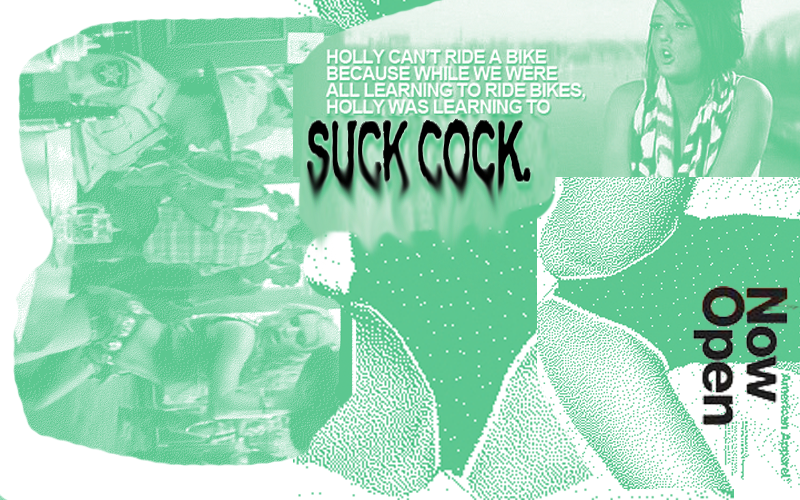
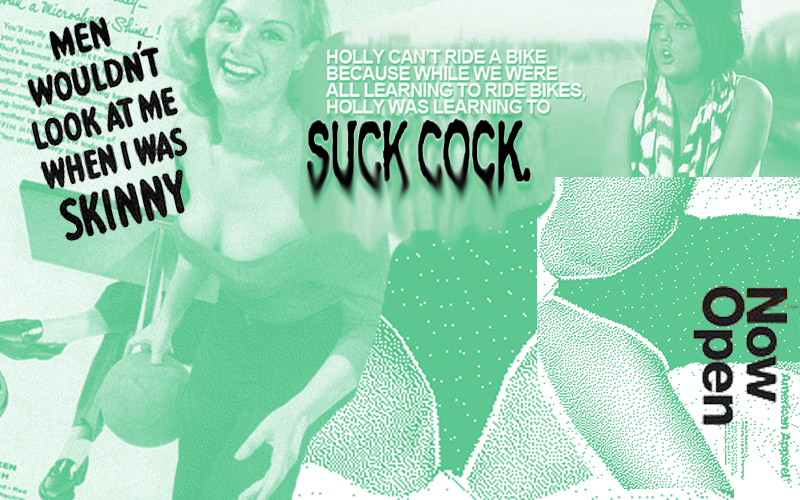
Collages toegevoegd per hoofdstuk

diff --git a/index.html b/index.html
@@ -61,7 +61,7 @@
         </nav>
 
         <main>
-            <section class="hoofdstuk" id="introductie">
+            <section class="hoofdstuk" id="inleiding">
                 <div class="rug">
                     <img class="rug_afb" src="img/vr balken-inleiding.svg">
                 </div>
@@ -70,7 +70,7 @@
                      <h3>Inleiding</h3>
 
                         <div class="quotes"><p>”Het karakter van iedere maatschappij  is het best te beoordelen naar de positie die de vrouwen er innemen”</div>
-                        — vrij naar Karl Marx</p>
+                        <h6>— vrij naar Karl Marx</h6></p>
                         <br>
 
                         <img src="img/Teaser-beelden--inleiding.png" width="100%";>
@@ -82,7 +82,7 @@
                         De manier waarop die informatie naar ons wordt gestuurd, via internet, de televisie of de radio, is niet per se zo objectief als we denken, en wat je ziet het heeft meer effect dan we denken.
                         Persoonlijk val ik erover hoe vrouwen vaak worden neergezet op televisie of in andere media. De domme blondjes, mooie bimbo’s of toegewijde huisvrouwen: de vrouw die ik ben, zie ik bijna niet, laat staan dat er goede inspiratiebronnen te zien zijn. Als ik RTL5 moet geloven, zou ik mezelf moeten vergelijken met pornoster Bobbi Eden en op SBS moeten ze überhaupt nog ontdekken wat een vrouw is in ’Leer mij Vrouwen Kennen’. Ik word er moe van dat er speciale ’Ladies Nights’ georganiseerd moeten worden om vrouwelijke deskundigen aan tafel te krijgen bij programma’s als De Wereld Draait Door. Ik heb het idee dat hierdoor een verkeerd beeld ontstaat van vrouwen, waarbij niet elke mediagebruiker zal beseffen dat hij/zij een eenzijdig beeld voorgeschoteld krijgt.</p>
 
-                        <p>Zo heeft internationaal onderzoek in 2005<sup id="fnref:1"><a href="#fn:1" rel="footnote">1</a></sup> uitgewezen dat de man-/vrouw-verdeling in de media 80 om 20 procent is<sup id="fnref:2"><a href="#fn:2" rel="footnote">2</a></sup>. Omdat media als een spiegel van de samenleving gezien kunnen worden, waarom is de vrouw dan zo weinig in beeld? En hoe groot is de invloed van het beeld dat we wél zien? Met dat als aanleiding, probeer ik daarom de volgende vraag in deze scriptie te onderzoeken: </p>
+                        <p>Zo heeft internationaal onderzoek in 2005<sup id="fnref:1"><a href="#fn1" rel="footnote">1</a></sup> uitgewezen dat de man-/vrouw-verdeling in de media 80 om 20 procent is<sup id="fnref:2"><a href="#fn2" rel="footnote">2</a></sup>. Omdat media als een spiegel van de samenleving gezien kunnen worden, waarom is de vrouw dan zo weinig in beeld? En hoe groot is de invloed van het beeld dat we wél zien? Met dat als aanleiding, probeer ik daarom de volgende vraag in deze scriptie te onderzoeken: </p>
 
                         <blockquote class="quotes">In hoeverre wordt de rol van de vrouw bepaald door de media en waarom is dit een probleem?</blockquote></p>
 
@@ -91,6 +91,10 @@
 
                     </div>
                 </div>
+            </section>
+
+            <section class="reclameblok">
+                    <img src="img/collage-1.png" width="100%" height="100%">
             </section>
 
             <section class="hoofdstuk" id="hoofdstuk1">
@@ -132,7 +136,7 @@
             </section>
 
             <section class="reclameblok">
-                <img src="img/collage-1.png" width="100%" height="100%">
+                <img src="img/collage-2.png" width="100%" height="100%">
             </section>
 
             <section class="hoofdstuk" id="hoofdstuktwee_een">
@@ -163,7 +167,7 @@
             </section>
 
             <section class="reclameblok">
-                <img src="img/collage-2.png" width="100%" height="100%">
+                <img src="img/collage-21.png" width="100%" height="100%">
             </section>
 
             <section class="hoofdstuk" id="hoofdstuktwee_twee">
@@ -224,7 +228,7 @@
 
                         <p>Belangrijk, vooral in de Verenigde Staten, was het boek The feminine mystique van Betty Friedan (1963), dat de frustraties van de vrouw in haar vastgeroeste ideaal als huismoeder aan het licht bracht. Ze stimuleerde hiermee de beweging om zich los te maken van het huisvrouwenbestaan en hun eigen identiteit te ontwikkelen. De Europese tegenhanger van dit boek was La deuxième Sexe van Simone de Beauvoir (1948). </p><br>
 
-                        <a id="thumbnail" href="#"><img src="img/1970NYCmarch.jpg" width="300px"></a>
+                        <a id="thumbnail" href="#"><img src="img/1970NYCmarch-mint.png" width="300px"></a>
                         <div id= "title"><h4>Protest in New York, 1970</h4></div><br>
                         <br>
                         <br>
@@ -386,34 +390,34 @@
 
                 <div class="broodtekst">
                     <div class="content">
-                    <p>Zeg nou zelf. Als er een vrouw in de krant of een tijdschrift staat, hoe vaak kijk je dan naar hoe ze er uit ziet? En doe je dat ook bij een man? Jeanine Hennis, huidig minister van Defensie, geeft het zelf ook aan in een interview met haar in de Volkskrant<sup id="fnref41"><a href="#fn:41" rel="footnote">41</a></sup>:
-                    <blockquote class="quotes">“Er worden veel columns geschreven over hoe ik eruitzie, terwijl ik nooit iets heb gelezen over slechtzittende maatpakken van mijn voorgangers. Hou op zeg.”</blockquote>
-                    <p>Een mooie tegenreactie hierop komt van de Australische televisiepresentator Karl Stefanovic, die een jaar lang elke dag hetzelfde pak droeg. Hij kwam tot dit idee doordat zijn vrouwelijke collega wél elke dag seksistische reacties en e-mails kreeg over haar kledingkeuze, maar hij als man niet. Het viel uiteindelijk niemand op, en het punt dat hij heeft gemaakt is aan de ene kant grappig, maar ook ernstig, omdat hij inziet dat het zo apart is dat bij vrouwen het zoveel meer om het uiterlijk gaat.<sup id="fnref:42"><a href="#fn42" rel="footnote">42</a></sup></p>
-                    <blockquote class="quotes">"I'm judged on my interviews, my appalling sense of humour – on how I do my job, basically. Whereas women are quite often judged on what they're wearing or how their hair is ... that's [what I wanted to test],”</blockquote><p>zegt Karl Stefanovic.</p>
+                        <p>Zeg nou zelf. Als er een vrouw in de krant of een tijdschrift staat, hoe vaak kijk je dan naar hoe ze er uit ziet? En doe je dat ook bij een man? Jeanine Hennis, huidig minister van Defensie, geeft het zelf ook aan in een interview met haar in de Volkskrant<sup id="fnref41"><a href="#fn41" rel="footnote">41</a></sup>:
+                        <blockquote class="quotes">“Er worden veel columns geschreven over hoe ik eruitzie, terwijl ik nooit iets heb gelezen over slechtzittende maatpakken van mijn voorgangers. Hou op zeg.”</blockquote>
+                        <p>Een mooie tegenreactie hierop komt van de Australische televisiepresentator Karl Stefanovic, die een jaar lang elke dag hetzelfde pak droeg. Hij kwam tot dit idee doordat zijn vrouwelijke collega wél elke dag seksistische reacties en e-mails kreeg over haar kledingkeuze, maar hij als man niet. Het viel uiteindelijk niemand op, en het punt dat hij heeft gemaakt is aan de ene kant grappig, maar ook ernstig, omdat hij inziet dat het zo apart is dat bij vrouwen het zoveel meer om het uiterlijk gaat.<sup id="fnref:42"><a href="#fn42" rel="footnote">42</a></sup></p>
+                        <blockquote class="quotes">"I'm judged on my interviews, my appalling sense of humour – on how I do my job, basically. Whereas women are quite often judged on what they're wearing or how their hair is ... that's [what I wanted to test],”</blockquote><p>zegt Karl Stefanovic.</p>
 
-                    <p>Onderstaande voorbeelden<sup id="fnref:43"><a href="#fn43" rel="footnote">43</a></sup> geven weer hoe stereotype verslaggeving soms onopvallend te werk gaat:</p>
+                        <p>Onderstaande voorbeelden<sup id="fnref:43"><a href="#fn43" rel="footnote">43</a></sup> geven weer hoe stereotype verslaggeving soms onopvallend te werk gaat:</p>
 
-                    <img src="img/Voorbeeld-1.jpg" width="200px" style="PADDING-RIGHT: 10px">
-                    <p>Zomaar een bericht over een première van een film. Maar waarom is de cupmaat van een van de hoofdrolspeelsters van belang? </p>
-                    <img src="img/Voorbeeld-2.png" width="200px" style="PADDING-RIGHT: 10px">
-                    <p>Lieke van Lexmond, actrice, is in verwachting. Het AD stelt gelijk de vraag of ze dan gaat stoppen met werken. Wordt deze vraag ooit aan een man gesteld, als zijn vriendin/vrouw zwanger is?</p>
-                    <img src="img/Voorbeeld-3.jpg" width="200px" style="PADDING-RIGHT: 10px">
-                    <p>Heel belangrijk detail om te weten dat de mogelijk nieuwe directrice van de BBC een getrouwde moeder met drie kinderen is. Wederom: wordt deze vraag ooit aan een man gesteld?</p>
-                    <img src="img/Voorbeeld-4.jpg" width="200px" style="PADDING-RIGHT: 10px">
-                    <p>Typisch voorbeeld van hoe mannen als het krachtige en machtige geslacht wordt gezien (met linksboven de aandacht van vrouwen als logisch gevolg daarvan) en hoe vrouwen pas de aandacht trekken als ze naakt poseren. Anders verkoopt de cover waarschijnlijk niet. (GQ is een voornamelijk op mannen gericht lifestyle blad)<p>
-                    <img src="img/Voorbeeld-5.jpg" width="200px" style="PADDING-RIGHT: 10px">
-                    <p>Wat betreft speelgoed wordt kinderen al heel jong duidelijk gemaakt wie ze moeten zijn: als jongen lees je het boekje over stoere cowboys, en als meisje wordt je natuurlijk aangetrokken door de roze, mooie ballerina.</p>
+                        <img src="img/Voorbeeld-1.jpg" width="200px" style="PADDING-RIGHT: 10px">
+                        <p>Zomaar een bericht over een première van een film. Maar waarom is de cupmaat van een van de hoofdrolspeelsters van belang? </p>
+                        <img src="img/Voorbeeld-2.png" width="200px" style="PADDING-RIGHT: 10px">
+                        <p>Lieke van Lexmond, actrice, is in verwachting. Het AD stelt gelijk de vraag of ze dan gaat stoppen met werken. Wordt deze vraag ooit aan een man gesteld, als zijn vriendin/vrouw zwanger is?</p>
+                        <img src="img/Voorbeeld-3.jpg" width="200px" style="PADDING-RIGHT: 10px">
+                        <p>Heel belangrijk detail om te weten dat de mogelijk nieuwe directrice van de BBC een getrouwde moeder met drie kinderen is. Wederom: wordt deze vraag ooit aan een man gesteld?</p>
+                        <img src="img/Voorbeeld-4.jpg" width="200px" style="PADDING-RIGHT: 10px">
+                        <p>Typisch voorbeeld van hoe mannen als het krachtige en machtige geslacht wordt gezien (met linksboven de aandacht van vrouwen als logisch gevolg daarvan) en hoe vrouwen pas de aandacht trekken als ze naakt poseren. Anders verkoopt de cover waarschijnlijk niet. (GQ is een voornamelijk op mannen gericht lifestyle blad)<p>
+                        <img src="img/Voorbeeld-5.jpg" width="200px" style="PADDING-RIGHT: 10px">
+                        <p>Wat betreft speelgoed wordt kinderen al heel jong duidelijk gemaakt wie ze moeten zijn: als jongen lees je het boekje over stoere cowboys, en als meisje wordt je natuurlijk aangetrokken door de roze, mooie ballerina.</p>
 
-                    <p>Om te onderzoeken in hoeverre ik in mijn directe omgeving seksistische berichtgeving/representatie kon vinden, heb ik een klein visueel onderzoek gedaan naar reclamefolders. Zo kwam ik onder andere tot de ontdekking dat voor Albert Heijn het heel simpel is: jongens houden van voetbal en meisjes van uiterlijke vertoning door hoge hakken en lippenstift. </p>
+                        <p>Om te onderzoeken in hoeverre ik in mijn directe omgeving seksistische berichtgeving/representatie kon vinden, heb ik een klein visueel onderzoek gedaan naar reclamefolders. Zo kwam ik onder andere tot de ontdekking dat voor Albert Heijn het heel simpel is: jongens houden van voetbal en meisjes van uiterlijke vertoning door hoge hakken en lippenstift. </p>
 
-                    <img src="img/Alice-Mulder---Marsepein.png" width="500px" style="PADDING-RIGHT: 150px">
-                    <img src="img/Alice-Mulder---V&D.png" width="500px" style="PADDING-RIGHT: 150px">
-                    <img src="img/Alice-Mulder---Top1Toys.png" width="500px" style="PADDING-RIGHT: 150px">
-                    <img src="img/Alice-Mulder---Trekpleister.png" width="500px" style="PADDING-RIGHT: 150px">
-                    <img src="img/Alice-Mulder---Volkskrant.png" width="500px" style="PADDING-RIGHT: 150px">
-                    <br>
-                    <br>
-                    <p>Een eenduidig antwoord op de vraag of we gewend zijn aan het seksisme is moeilijk te geven want dat is al een onderzoek op zich, maar het feit dat het in zulke kleine dingen als een introtekst in de krant te vinden is, geeft aan dat het breed verspreid te vinden is. We zien het zo veel en soms zo subtiel om ons heen, dat je het op een gegeven moment niet echt meer door hebt.</p><!-- HOOFDSTUK TITEL + TEKST -->
+                        <img src="img/Alice-Mulder---Marsepein.png" width="500px" style="PADDING-RIGHT: 150px">
+                        <img src="img/Alice-Mulder---V&D.png" width="500px" style="PADDING-RIGHT: 150px">
+                        <img src="img/Alice-Mulder---Top1Toys.png" width="500px" style="PADDING-RIGHT: 150px">
+                        <img src="img/Alice-Mulder---Trekpleister.png" width="500px" style="PADDING-RIGHT: 150px">
+                        <img src="img/Alice-Mulder---Volkskrant.png" width="500px" style="PADDING-RIGHT: 150px">
+                        <br>
+                        <br>
+                        <p>Een eenduidig antwoord op de vraag of we gewend zijn aan het seksisme is moeilijk te geven want dat is al een onderzoek op zich, maar het feit dat het in zulke kleine dingen als een introtekst in de krant te vinden is, geeft aan dat het breed verspreid te vinden is. We zien het zo veel en soms zo subtiel om ons heen, dat je het op een gegeven moment niet echt meer door hebt.</p>
                     </div>
                 </div>
             </section>
@@ -428,10 +432,11 @@
                 </div>
 
                 <div class="teaser">
-                    <h3>Wat is de politieke agenda van deze huidige beeldcultuur?</h3>
+                    <h3>Wat is de politieke agenda van deze huidige beeldcultuur?<br>
+                    –</h3>
                         <p><blockquote class="quotes">“We have no obligation to make history or art. We have no obligation to make a statement.
                         To make money is our only objective.”</blockquote>
-                        <h6><p>Michael Eisner, voormalig directeur van The Walt Disney Company.</h6><sup id="fnref:44"><a href="#fn44" rel="footnote">44</a></sup></p></p>
+                        <p><h6>Michael Eisner, voormalig directeur van The Walt Disney Company.</h6><sup id="fnref:44"><a href="#fn44" rel="footnote">44</a></sup></p></p>
                     <br>
                     <img src="img/Teaser-beelden--h5.png" width="100%">
                 </div>
@@ -446,7 +451,7 @@
                         We have no obligation to make art.
                         We have no obligation to make a statement.
                         To make money is our only objective.”</blockquote>
-                        <p>Michael Eisner, voormalig directeur van The Walt Disney Company (op basis van een interne memo).<sup id="fnref:44"><a href="#fn44" rel="footnote">44</a></sup></p><br>
+                        <p><h6>Michael Eisner, voormalig directeur van The Walt Disney Company (op basis van een interne memo).<sup id="fnref:44"><a href="#fn44" rel="footnote">44</a></sup></h6></p><br>
 
                         <p>De beelden die adverteerders ons opleggen leren vrouwen hoe ze ècht vrouw kunnen worden: met de juiste lippenstift, schoenen en geschoren benen (haren kunnen écht niet!!) ben je pas de echte vrouw die je moet zijn. Je identiteit wordt gecreëerd door hoe jij je toont aan de buitenwereld.</p>
 
@@ -456,9 +461,13 @@
                         <p>In Nederland gaat het gelukkig niet zo ver en heeft de politiek wel degelijk invloed, maar er gaan stemmen op om het amusement van de publieke zenders te laten verdwijnen, omdat dat niet de taak van de onafhankelijke staatsomroepen zou zijn. Ik vind dat we daar mee moeten uitkijken. Voor je het weet kijk je op RTL 5 naar een amusementsprogramma gesponsord door een hip mannenmerk, en vliegen de tieten en andere clichés je om de oren. </p>
                         <p>We moeten ervoor blijven waken dat we zo veel mogelijk onafhankelijke informatie tot ons krijgen en ik denk niet dat dat gewaarborgd is als we de publieke omroep minder diverse programma’s laten maken en de kijker voor vermaak naar de commerciële zenders moet zappen.</p>
                         <p>Gelukkig beseft Shula Rijxman, bestuurslid van de NPO, dat een realistische afspiegeling van de samenleving belangrijk is: </p>
-                        <blockquote class="quotes">“Zolang experts, columnisten en andere sprekers op tv voor het overgrote deel uit mannen bestaan, slagen we er onvoldoende in om Nederland in zijn volledigheid te laten zien.”<sup id="fnref:48"><a href="#fn48" rel="footnote">48</a></sup></blockquote>  <!-- HOOFDSTUK TITEL + TEKST -->
+                        <blockquote class="quotes">“Zolang experts, columnisten en andere sprekers op tv voor het overgrote deel uit mannen bestaan, slagen we er onvoldoende in om Nederland in zijn volledigheid te laten zien.”</blockquote><sup id="fnref:48"><a href="#fn48" rel="footnote">48</a></sup>
                     </div>
                 </div>
+            </section>
+
+            <section class="reclameblok">
+                    <img src="img/collage-6.png" width="100%" height="100%">
             </section>
 
             <section class="hoofdstuk" id="reflectie">
@@ -475,26 +484,27 @@
 
                 <div class="broodtekst">
                     <div class="content">
-                        <blockquote class="quotes">“Het persoonlijke wordt politiek”<sup id="fnref:49"><a href="#fn:49" rel="footnote">49</a></sup></blockquote>
+                        <blockquote class="quotes">“Het persoonlijke wordt politiek”<sup id="fnref:49"><a href="#fn49" rel="footnote">49</a></sup></blockquote>
 
-                        <p>In het proces van het schrijven van deze scriptie en de besprekingen die daarmee gemoeid zijn, met klasgenoten, docenten en vrienden, viel mij steeds op dat zodra ik uitlegde waar ik precies mee bezig was, eigenlijk twee reacties kreeg: interesse en begrip van vrouwen óf geknik en verder geen echte verdere reactie van vrouwen èn mannen
+                        <p>In het proces van het schrijven van deze scriptie en de besprekingen die daarmee gemoeid zijn, met klasgenoten, docenten en vrienden, viel mij steeds op dat zodra ik uitlegde waar ik precies mee bezig was, eigenlijk twee reacties kreeg: interesse en begrip van vrouwen óf geknik en verder geen echte verdere reactie van vrouwen èn mannen.
 
-                        <p>Men begrijpt de noodzaak van mijn onderwerp en voelt met me mee, maar het lijkt wel alsof er met het gevoel van begrip en urgentie hierna verder niets wordt gedaan, alsof  het diegene zelf niet persoonlijk raakt.</p>
+                        <p>Men begrijpt de noodzaak van mijn onderwerp en voelt met me mee, maar het lijkt wel alsof er met het gevoel van begrip en urgentie hierna verder niets wordt gedaan, alsof  het diegene zelf niet persoonlijk raakt.</p><br>
 
                         <p>Het stoort me enorm dat zodra ik over mijn onderwerp begin en de urgentie aankaart, ik een beetje meewarig wordt aangekeken. Zodra het woord feminisme of seksisme valt, zie je de helft van de aanwezigen al denken ’daar heb je er weer zo een’, of ook: ’ze is vast zo’n mannenhater’. </p>
                         <p>De clichés vliegen me om de oren en er worden grappen gemaakt zodra ik mijn punt wil maken. Wat al helemaal vervelend is, is dat het ook van docenten niet de volledige aandacht lijkt te hebben, of dat het probleem alsnog niet wordt erkend. Tijdens een bespreking zei een docent: “Maar dat weten we toch allemaal al?” En daar zit precies het probleem. Natuurlijk weten we dat de media, televisie, reclame, etcetera, ons niet voorschotelt wat de waarheid is en hoe de bevolking er in realiteit uit ziet, maar dat betekent niet dat we dit maar klakkeloos moeten accepteren en onze schouders bij moeten ophalen zodra iemand het onderwerp ter sprake brengt? Het gaat ons toch allemaal aan, en niet alleen een kleine groep duidelijk onderdrukte vrouwen? </p>
 
-                        <blockquote class="quotes">‘I decided I was a feminist and this seemed uncomplicated to me. But my recent research has shown me that feminism has become an unpopular word. Apparently I am among the ranks of women whose expressions are seen as too strong, too aggressive, isolating, anti-men and, unattractive. Why is the word such an uncomfortable one?’<sup id="fnref:50"><a href="#fn50" rel="footnote">50</a></sup></blockquote>
+                        <blockquote class="quotes">‘I decided I was a feminist and this seemed uncomplicated to me. But my recent research has shown me that feminism has become an unpopular word. Apparently I am among the ranks of women whose expressions are seen as too strong, too aggressive, isolating, anti-men and, unattractive. Why is the word such an uncomfortable one?’</blockquote><sup id="fnref:50"><a href="#fn50" rel="footnote">50</a></sup>
 
                         <h2>Herhalende patronen als grondslag van maatschappelijke problematiek</h2>
 
                         <p>De verkeerde representatie van vrouwen in de media kan natuurlijk veel breder getrokken worden; ook donkere mensen, mensen met obesitas, Aziaten, blinden, doven, homo’s, lesbiennes en mensen met een verslaving zijn bijvoorbeeld veelal verkeerd of te weinig te zien in de media. Denk er maar eens over na; zie je wel eens een persoon met overgewicht op een positieve manier op televisie, of is het alleen in afvalprogramma’s of comedy’s waar er om ze wordt gelachen en ze ook de draak met zichzelf steken? </p>
                         <p>Natuurlijk, in de discussie over Zwarte Piet en de rellen in Ferguson, Amerika, naar aanleiding van het doodschieten van een onschuldige zwarte jongen en het feit dat de blanke agent hier niet voor wordt berecht, is er aandacht voor minderheden en de ongelijkheid in de behandeling hiervan. Zo staat discriminatie en racisme weer volop in de aandacht, en blijkt maar weer hoe kortzichtig en minder tolerant we zijn dan we allemaal pleiten te zijn in Nederland. Maar is het daarbij niet krom om dan maar te negeren dat vrouwen (én mannen natuurlijk) net zo goed steeds gediscrimineerd worden, door weg te worden gezet als object, wat gecommandeerd kan worden of ’toch maar gaat janken’ als er iets is? Ik ga er niet mee akkoord dat de maatschappij en degenen zonder en degenen mét de macht maar opzij blijven kijken.</p>
-                        <p>De problematiek rond Zwarte Piet en de ontbrekende excuses voor de slavernij wat aan de frustratie en protesten vandaag de dag ten grondslag ligt, heeft dezelfde basis als de vrouwenongelijkheid die we tegenwoordig ook nog steeds als maatschappijprobleem kunnen zien. Zoals ik beschreef in hoofdstuk 2 is de ongelijkheid tussen man en vrouw diep geworteld in onze geschiedenis en net als bij discriminatie en racisme al zo lang deel van onze westerse cultuur, dat het aanpakken van dit probleem en het veranderen van de mentaliteit grote maatschappelijke veranderingen vergt. Het feit dat er de laatste jaren openlijk wordt gepraat (geprotesteerd/gevochten tijdens de intocht van Sinterklaas) over de problematiek rond Zwarte Piet, is een voorzichtig begin van veranderingen in denken over ongelijkheid. Het zou mooi zijn als we over een paar jaar als maatschappij toe zijn aan het behandelen van vrouwenongelijkheid, en we eindelijk erkenning krijgen voor het probleem, niet alleen vanuit vrouwenorganisaties maar juist ook vanuit de hoek van de politiek, bedrijfsleven en andere takken waar ’de systemen’ de gelijkheid nog niet volledig mogelijk maken.</p>
+                        <p>De problematiek rond Zwarte Piet en de ontbrekende excuses voor de slavernij wat aan de frustratie en protesten vandaag de dag ten grondslag ligt, heeft dezelfde basis als de vrouwenongelijkheid die we tegenwoordig ook nog steeds als maatschappijprobleem kunnen zien. Zoals ik beschreef in hoofdstuk 2 is de ongelijkheid tussen man en vrouw diep geworteld in onze geschiedenis en net als bij discriminatie en racisme al zo lang deel van onze westerse cultuur, dat het aanpakken van dit probleem en het veranderen van de mentaliteit grote maatschappelijke veranderingen vergt. Het feit dat er de laatste jaren openlijk wordt gepraat (geprotesteerd/gevochten tijdens de intocht van Sinterklaas) over de problematiek rond Zwarte Piet, is een voorzichtig begin van veranderingen in denken over ongelijkheid. Het zou mooi zijn als we over een paar jaar als maatschappij toe zijn aan het behandelen van vrouwenongelijkheid, en we eindelijk erkenning krijgen voor het probleem, niet alleen vanuit vrouwenorganisaties maar juist ook vanuit de hoek van de politiek, bedrijfsleven en andere takken waar ’de systemen’ de gelijkheid nog niet volledig mogelijk maken.</p> <br>
 
                         <h2>White privilege</h2>
 
-                        <blockquote class="quotes">"I can turn on the television or open to the front page of the paper and see people of my race widely represented.”<sup id="fnref:51"><a href="#fn51" rel="footnote">51</a></sup></blockquote>
+
+                        <blockquote class="quotes">"I can turn on the television or open to the front page of the paper and see people of my race widely represented.”</blockquote><sup id="fnref:51"><a href="#fn51" rel="footnote">51</a></sup>
 
                         <p>Reden waarom de Zwarte Pieten-discussie zo’n grote groep mensen aanspreekt, is omdat het mes natuurlijk aan twee kanten snijdt; de donkere bevolkingsgroepen in Nederland vinden het te veel een verwijzing naar de slavernij, waar blanken die link niet per se voelen en het bij ’ons feest’ vinden horen. Dit verschijnsel valt goed uit te leggen onder de term ’white privilege’, wat staat voor het maatschappelijke voordeel dat blanken hebben ten opzichte van niet-blanken, die wel leven onder dezelfde sociale, politieke en economische omstandigheden<sup id="fnref:52"><a href="#fn52" rel="footnote">52</a></sup>. Deze dominante, bevoorrechte groep heeft dit niet ’verdiend’, dat wil zeggen, voor gevochten, maar bezit deze voordelen op grond van de waarden van deze groep. Zo valt de Zwarte Pieten-discussie simpelweg eigenlijk niet te begrijpen voor blanken, omdat deze nooit de slavernij vanuit de ogen van de onderdrukte groep hebben meegemaakt. Zo zien de voorstanders van Zwarte Piet de link met slavernij niet meer, omdat het voor hen niet een negatief aspect van hun identiteit is. Dit is natuurlijk heel kort door de bocht uitgelegd. Ik bedoel hier niemand mee te beledigen, maar puur aan te stippen waarom deze discussie erg lastig is, omdat er voor de niet-blanke groep andere belangen (zoals excuses voor het slavernijverleden) spelen die voor de blanke groep niet per se voelbaar zijn.</p>
 
@@ -507,9 +517,13 @@
 
                         <p>Wat ik mis is een algemene acceptatie van het probleem en mensen die opstaan en er écht iets aan doen. En dan heb ik het niet alleen over vrouwen, de ’slachtoffers’, die nu meestal al degenen zijn die aandacht vragen hiervoor, maar ook mannen, die in hun huidige dominante positie het verschil kunnen maken.</p>
 
-                        <blockquote class="quotes">“Men (…),’ zegt Watson ‘Gender equality is your issue too. I’ve seen my father’s role as a parent being valued less by society despite my needing his presence as a child as much as my mother’s.’<sup id="fnref:54"><a href="#fn54" rel="footnote">54</a></sup></blockquote><!-- HOOFDSTUK TITEL + TEKST -->
+                        <blockquote class="quotes">“Men (…),’ zegt Watson ‘Gender equality is your issue too. I’ve seen my father’s role as a parent being valued less by society despite my needing his presence as a child as much as my mother’s.’</blockquote><sup id="fnref:54"><a href="#fn54" rel="footnote">54</a></sup>
                     </div>
                 </div>
+            </section>
+
+            <section class="reclameblok">
+                    <img src="img/collage-7.png" width="100%" height="100%">
             </section>
 
             <section class="hoofdstuk" id="conclusie">
@@ -529,9 +543,13 @@
                         <p>Dat de representatie van de maatschappij in de media niet correct is, weten de meeste mensen wel, maar dat de invloed van de beelden die we zien zo groot is, is minder bekend en juist daar zie ik een probleem. Door de herhaling van steeds dezelfde stereotype mannen en vrouwen, ontstaan beelden die niet per se de enige versies zijn van deze seksen. Om al helemaal niet te spreken van minderheden als transseksuelen, transgenders, albino’s, doven, zwaarlijvigen, homoseksuelen, lesbiennes en grafisch ontwerpers, die niet of met een verkeerd (stereotype) imago worden gerepresenteerd in de media. Zijn vrouwen dom en alleen interessant als het om hun uiterlijk en moederrol gaat, en zijn alle mannen machtig, sterk en intelligent?
                         Ik zie hier een rol voor mij als grafisch ontwerper weggelegd om aan te kaarten dat we ons hier bewuster van moeten worden en misschien kan ik zelfs een poging doen dit beeld te veranderen. Beelden zijn de tekst van de toekomst dus moeten we zorgen dat deze beelden ook realistisch zijn, in plaats van een droomwereld te creëren die we nergens in het dagelijks leven tegen komen. </p>
 
-                        <blockquote class="quotes">You can’t be, what you can’t see.<sup id="fnref:55"><a href="#fn55" rel="footnote">55</a></sup></blockquote><!-- HOOFDSTUK TITEL + TEKST -->
+                        <blockquote class="quotes">You can’t be, what you can’t see.</blockquote><sup id="fnref:55"><a href="#fn55" rel="footnote">55</a></sup>
                     </div>
                 </div>
+            </section>
+
+            <section class="reclameblok">
+                    <img src="img/collage-8.png" width="100%" height="100%">
             </section>
 
             <section class="hoofdstuk" id="bronnen">
@@ -775,7 +793,7 @@
         </div>
     	<div class="footnote" id="fn55">
         	<p>http://www.jannekevanheugten.nl/528/alle-vrouwen-de-beeldbuis-op-vakvrouw-vertel-je-verhaal/<a href="#fnref55" title="return to article"> ↩</a>
-        </div> -->
+        </div>
         </div>
     </div>
 
